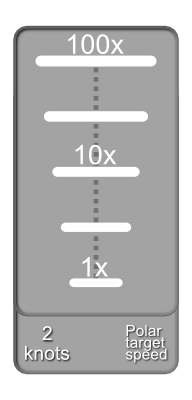
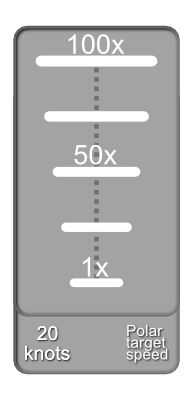
Finalized datasimulator, chart swapping and changed polar digarams to populate to FinnGullf36. Small changes to anemometer handle angle also.

diff --git a/upwind/src/UWPlugins/PostgreChartProvider/settingsui.cpp b/upwind/src/UWPlugins/PostgreChartProvider/settingsui.cpp
@@ -5,6 +5,7 @@
 SettingsUI::SettingsUI(QWidget *parent) :
     QWidget(parent),
     ui(new Ui::SettingsUI)
+  , initializing(false)
 {
     ui->setupUi(this);
     ui->lineEdit_password->setEchoMode(QLineEdit::Password);
@@ -17,9 +18,9 @@ SettingsUI::~SettingsUI(){
 
 void SettingsUI::save(){
     qDebug() << Q_FUNC_INFO;
-    updateSettings();
+//    updateSettings();
     getChartNames();
-    updateSettings();
+//    updateSettings();
 }
 
 void SettingsUI::getChartNames(){
@@ -27,7 +28,8 @@ void SettingsUI::getChartNames(){
         ui->comboBox_databases->clear();
 
     QString driver = "PG:";
-    driver.append("dbname=chart57");
+    driver.append("dbname=");
+    driver.append("chart57");
     driver.append(" user=");
     driver.append(pgchart->getConUser());
     driver.append(" password=");
@@ -78,10 +80,13 @@ void SettingsUI::getChartNames(){
 void SettingsUI::setupSettings(Settings *s){
     settings = s;
 
+    initializing = true;
+
     ui->lineEdit_user->setText(s->getSetting("User"));
     ui->lineEdit_password->setText(s->getSetting("Password"));
     ui->lineEdit_port->setText(s->getSetting("Port"));
     ui->lineEdit_host->setText(s->getSetting("Host"));
+    ui->level_edit->setText(s->getSetting(("DetailLevel")));
 
     ui->comboBox_databases->addItem(s->getSetting("DBName"));
 
@@ -89,22 +94,31 @@ void SettingsUI::setupSettings(Settings *s){
                         s->getSetting(("Port")).toInt(),
                         s->getSetting(("DBName")),
                         s->getSetting(("User")),
-                        s->getSetting(("Password")));
+                        s->getSetting(("Password")),
+                        s->getSetting(("DetailLevel")).toInt());
+
+    initializing = false;
 }
 
 void SettingsUI::updateSettings(){
+    if (initializing)
+        return;
+
     settings->setSetting("User", ui->lineEdit_user->text());
     settings->setSetting("Password", ui->lineEdit_password->text());
     settings->setSetting("Port", ui->lineEdit_port->text());
     settings->setSetting("Host", ui->lineEdit_host->text());
     settings->setSetting("DBName", ui->comboBox_databases->currentText());
+    settings->setSetting("DetailLevel", ui->level_edit->text());
 
     settings->saveSettings();
 
+    pgchart->setConName(ui->comboBox_databases->currentText());
     pgchart->setConHost(ui->lineEdit_host->text());
     pgchart->setConPass(ui->lineEdit_password->text());
     pgchart->setConPort((ui->lineEdit_port->text()).toInt());
     pgchart->setConUser(ui->lineEdit_user->text());
+    pgchart->setDetailLevel(ui->level_edit->text().toInt());
 }
 
 
@@ -176,6 +190,11 @@ void SettingsUI::on_level_edit_textChanged(const QString &arg1)
     bool ok;
     int number = arg1.toInt(&ok);
     if (ok) {
-
+        updateSettings();
     }
+}
+
+void SettingsUI::on_comboBox_databases_currentIndexChanged(int index)
+{
+    updateSettings();
 }

diff --git a/upwind/src/UWPlugins/PostgreChartProvider/postgrechartprovider.cpp b/upwind/src/UWPlugins/PostgreChartProvider/postgrechartprovider.cpp
@@ -55,13 +55,15 @@ void PostgreChartProvider::initialize(QString host,
                                       uint port,
                                       QString dbname,
                                       QString username,
-                                      QString password)
+                                      QString password,
+                                      int detailLevel)
 {
     dbHost = host;
     dbPort = port;
     dbName = dbname;
     dbUser = username;
     dbPass = password;
+    this->detailLevel = detailLevel;
     initConnection();
 }
 
@@ -80,8 +82,10 @@ void PostgreChartProvider::initConnection(){
     }
     else {
         mapLayers();
-        setBoundingBox(layers.value("generarea_r"));
-//        setBoundingBox(layers.value("generarea_r_level5"));
+        if (detailLevel == 0)
+            setBoundingBox(layers.value("generarea_r"));
+        else
+            setBoundingBox(layers.value("generarea_r_level" + QString::number(detailLevel)));
     }
 }
 
@@ -111,10 +115,8 @@ void PostgreChartProvider::mapLayers()
         }
         */
 
-        // Get only level 5.
-//        layer = getLayerLevel(baseName, 5);
-        // fuck levels
-        layer = getLayerLevel(baseName, -1);
+        // Get the correct level.
+        layer = getLayerLevel(baseName, detailLevel);
 
         // If the layer was found from the database.
         if (layer != NULL)
@@ -128,12 +130,12 @@ void PostgreChartProvider::mapLayers()
 // Gets layer by basename of wanted layer-level.
 OGRLayer* PostgreChartProvider::getLayerLevel(QString layerNameString, int layerNumber)
 {
-    qDebug() << "GetLayerLevel 5";
+    qDebug() << "GetLayerLevel" << layerNumber;
     OGRLayer *layer;
     // Layer's levelnumber to QString
     QString layerNumberStr = QString::number(layerNumber);
 
-    if(layerNameString.at(layerNameString.size()-1) != 'p' && layerNumber != -1)
+    if(layerNameString.at(layerNameString.size()-1) != 'p' && layerNumber != 0)
         layerNameString = layerNameString + "_level" + layerNumberStr;
     else
         layerNameString = layerNameString;
@@ -347,7 +349,8 @@ void PostgreChartProvider::initializeSettings(){
         settings->setSetting("Password", "upwind");
         settings->setSetting("Port", "5432");
         settings->setSetting("Host", "localhost");
-        settings->setSetting("DBName", "none");
+        settings->setSetting("DBName", "chart57");
+        settings->setSetting("DetailLevel", "0");
     }
 }
 
@@ -726,6 +729,10 @@ void PostgreChartProvider::setConPort(uint port){
 
 void PostgreChartProvider::setConHost(QString host){
     dbHost = host;
+}
+
+void PostgreChartProvider::setDetailLevel(int level) {
+    detailLevel = level;
 }
 
 void PostgreChartProvider::setChartWidgetSize(QSize size){

diff --git a/upwind/src/UWPlugins/UpWindScene/Scene/polardiagram.cpp b/upwind/src/UWPlugins/UpWindScene/Scene/polardiagram.cpp
@@ -45,6 +45,75 @@ void PolarDiagram::populate(){
 //    return *this;
 }
 
+void PolarDiagram::populateWithFinngulf36(){
+    this->name = "generic";
+    this->TWA = true;
+    this->diagram.clear();
+    this->diagram[6].insert(52, 710);
+    this->diagram[6].insert(60, 650.1);
+    this->diagram[6].insert(75, 606.8);
+    this->diagram[6].insert(90, 604.7);
+    this->diagram[6].insert(110, 619.7);
+    this->diagram[6].insert(120, 665.3);
+    this->diagram[6].insert(135, 768.1);
+    this->diagram[6].insert(150, 915.8);
+
+    this->diagram[8].insert(52, 605.1);
+    this->diagram[8].insert(60, 573.2);
+    this->diagram[8].insert(75, 550.1);
+    this->diagram[8].insert(90, 540.5);
+    this->diagram[8].insert(110, 548.9);
+    this->diagram[8].insert(120, 565);
+    this->diagram[8].insert(135, 613.1);
+    this->diagram[8].insert(150, 723.7);
+
+    this->diagram[10].insert(52, 547.1);
+    this->diagram[10].insert(60, 546.7);
+    this->diagram[10].insert(75, 521.2);
+    this->diagram[10].insert(90, 510.5);
+    this->diagram[10].insert(110, 513.1);
+    this->diagram[10].insert(120, 523.3);
+    this->diagram[10].insert(135, 551.8);
+    this->diagram[10].insert(150, 604.3);
+
+    this->diagram[12].insert(52, 557.4);
+    this->diagram[12].insert(60, 532.2);
+    this->diagram[12].insert(75, 503.9);
+    this->diagram[12].insert(90, 494.9);
+    this->diagram[12].insert(110, 489.5);
+    this->diagram[12].insert(120, 495.6);
+    this->diagram[12].insert(135, 515.9);
+    this->diagram[12].insert(150, 550.9);
+
+    this->diagram[14].insert(52, 547.2);
+    this->diagram[14].insert(60, 522.8);
+    this->diagram[14].insert(75, 494.9);
+    this->diagram[14].insert(90, 485.2);
+    this->diagram[14].insert(110, 472.3);
+    this->diagram[14].insert(120, 475.3);
+    this->diagram[14].insert(135, 490.8);
+    this->diagram[14].insert(150, 516.8);
+
+    this->diagram[16].insert(52, 541);
+    this->diagram[16].insert(60, 516.9);
+    this->diagram[16].insert(75, 488.8);
+    this->diagram[16].insert(90, 474.5);
+    this->diagram[16].insert(110, 458.6);
+    this->diagram[16].insert(120, 457.3);
+    this->diagram[16].insert(135, 470.8);
+    this->diagram[16].insert(150, 492.2);
+
+    this->diagram[20].insert(52, 537.3);
+    this->diagram[20].insert(60, 512);
+    this->diagram[20].insert(75, 481.8);
+    this->diagram[20].insert(90, 462.3);
+    this->diagram[20].insert(110, 442.1);
+    this->diagram[20].insert(120, 430.3);
+    this->diagram[20].insert(135, 435.1);
+    this->diagram[20].insert(150, 453.8);
+}
+
+
 void PolarDiagram::clear(){
     name.clear();
     diagram.clear();

diff --git a/upwind/src/UWPlugins/NMEAInstruments/Anemometer/anemometer.cpp b/upwind/src/UWPlugins/NMEAInstruments/Anemometer/anemometer.cpp
@@ -25,7 +25,7 @@ Anemometer::Anemometer(QWidget *parent){
     setDefaultStyleSheet();
     changeWidgetSize();
 
-    angle = 0;
+    m_angle = 0;
 
     connect(this->instrumentView, SIGNAL(mouseMoved(QMouseEvent*)), this, SLOT(mouseMoveEvent(QMouseEvent*)));
     connect(this->instrumentView, SIGNAL(mousePressed(QMouseEvent*)), this, SLOT(mousePressEvent(QMouseEvent*)));
@@ -91,9 +91,8 @@ void Anemometer::initializeImages(){
 }
 
 void Anemometer::setAngle(int angle){
-    angle = 180 - angle;
-    hand->resetTransform();
-    hand->rotate(angle);
+    m_angle = angle;
+    hand->setRotation(angle);
 }
 
 void Anemometer::setParsedNMEAValues(QString angle, QString windSpeedMS, QString windSpeedKnots){
@@ -114,11 +113,7 @@ void Anemometer::parseNMEAString(const QString & text){
         QStringList strList = text.split(",");
         QString angleString=(QString)strList.at(1);
         if(!angleString.isEmpty()){
-            double dialValueFloat = angleString.toDouble();
-            int dialValue = (int)dialValueFloat;
-            angle = dialValue;
-            dialValue >= 180 ? dialValue -=180 : dialValue += 180;
-            setAngle(angle);
+            setAngle(angleString.toDouble() + 180.0);
             if(strList.size() > 6){
                 knots->setText((QString)strList.at(3));
                 ms->setText((QString)strList.at(5));

diff --git a/upwind/src/UWPlugins/NMEAInstruments/Anemometer/anemometer.h b/upwind/src/UWPlugins/NMEAInstruments/Anemometer/anemometer.h
@@ -44,7 +44,7 @@ private:
     QGraphicsScene *anemometerScene;
     QGraphicsPixmapItem* anemometer;
     QGraphicsPixmapItem* hand;
-    int angle;
+    int m_angle;
     QGraphicsSimpleTextItem *knots;
     QGraphicsSimpleTextItem *ms;
 
@@ -53,7 +53,7 @@ private:
       * @param windSpeedMS - wind speed in metres per second
       * @param windSpeedKnots - wind speed in knots
       */
-    void setParsedNMEAValues(QString angle,  QString windSpeedMS, QString windSpeedKnots);
+    void setParsedNMEAValues(QString m_angle,  QString windSpeedMS, QString windSpeedKnots);
 
     /** Changes the size of the widget with the value of sizes[]
       */
@@ -66,7 +66,7 @@ private:
 public slots:
     /** Set the angle of the wind
       */
-    void setAngle(int angle);
+    void setAngle(int m_angle);
 
     /** Change the size of the widget calling the private method changeWidgetSize
       */

diff --git a/upwind/src/UWPlugins/ChartProviderInterface/chartproviderinterface.h b/upwind/src/UWPlugins/ChartProviderInterface/chartproviderinterface.h
@@ -9,7 +9,7 @@ class ChartObjectInterface;
 class ChartProviderInterface : public UWPluginInterface{
 public:
     explicit ChartProviderInterface(){}
-    virtual void initialize(QString host, uint port, QString dbName, QString username, QString password) = 0;
+    virtual void initialize(QString host, uint port, QString dbName, QString username, QString password, int detailLevel) = 0;
     virtual void setAreaFilter(QRectF area) = 0;
     virtual void setZoomLevel(int level) = 0;
     virtual void setChartWidgetSize(QSize size) = 0;

diff --git a/upwind/src/UWPlugins/PostgreChartProvider/postgrechartprovider.h b/upwind/src/UWPlugins/PostgreChartProvider/postgrechartprovider.h
@@ -28,7 +28,8 @@ public:
                     uint port,
                     QString dbname,
                     QString username,
-                    QString password);
+                    QString password,
+                    int detailLevel);
 
     virtual void addPluginSettingsToLayout(QLayout *layout);
 
@@ -50,6 +51,7 @@ public:
     void setConPass(QString pass);
     void setConPort(uint port);
     void setConHost(QString host);
+    void setDetailLevel(int level);
 
     void setChartWidgetSize(QSize size);
 

diff --git a/upwind/src/UWPlugins/NMEADataSimulator/datasimulator.cpp b/upwind/src/UWPlugins/NMEADataSimulator/datasimulator.cpp
@@ -41,7 +41,7 @@ dataSimulator::dataSimulator() :
 
     m_currentCompassHeading = 0; // clockwise degrees from north
     m_currentVelocity = 0.0; // knots per hour
-    m_defaultMotorVelocity = 2.0; // knots per hour, two knots. Default motor speed.
+    m_defaultMotorVelocity = 20.0; // knots per hour, two knots. Default motor speed.
     m_currentSteeringSpeed = 0.0;
     m_velocityMultiplier = 1.0;
     m_isAnchored = false;

diff --git a/upwind/src/UWPlugins/PostgreChartProvider/settingsui.h b/upwind/src/UWPlugins/PostgreChartProvider/settingsui.h
@@ -36,6 +36,8 @@ public slots:
 private slots:
     void on_level_edit_textChanged(const QString &arg1);
 
+    void on_comboBox_databases_currentIndexChanged(int index);
+
 private:
     /** Save the settings with new parameters that the user has chosen
       */
@@ -51,6 +53,7 @@ private:
     Ui::SettingsUI *ui;
     Settings *settings;
     PostgreChartProvider *pgchart;
+    bool initializing;
 };
 
 #endif // SETTINGSUI_H

diff --git a/upwind/src/UWPlugins/UpWindScene/Scene/calculatelaylines.cpp b/upwind/src/UWPlugins/UpWindScene/Scene/calculatelaylines.cpp
@@ -812,7 +812,7 @@ void CalculateLaylines::updateLayLines()
 {
     QTime timeUpdateLayLines;
     timeUpdateLayLines.start();
-    this->pPolarDiagram->populate();
+    this->pPolarDiagram->populateWithFinngulf36();
 
     // LayLines are not calculated with the actual TWA,
     // but the TWA that we will have when heading towards our destiny.

diff --git a/upwind/src/UWPlugins/UpWindScene/Scene/route.cpp b/upwind/src/UWPlugins/UpWindScene/Scene/route.cpp
@@ -959,7 +959,7 @@ void Route::addStaticWeather(double angleWind,double speedWind)
     if(debug)time1=time1.currentTime();
 
     PolarDiagram pDiagram;
-    pDiagram.populate();
+    pDiagram.populateWithFinngulf36();
     qDebug()<<"Add static weather called";
 
     for(int i=0;i<adMatrix.size();i++){

diff --git a/upwind/src/UWPlugins/UpWindScene/Scene/polardiagram.h b/upwind/src/UWPlugins/UpWindScene/Scene/polardiagram.h
@@ -65,6 +65,8 @@ public:
       */
     void populate();
 
+    void populateWithFinngulf36();
+
      /**
       * Clears a a polar diagram, by clearing the name and the Diagram
       */
